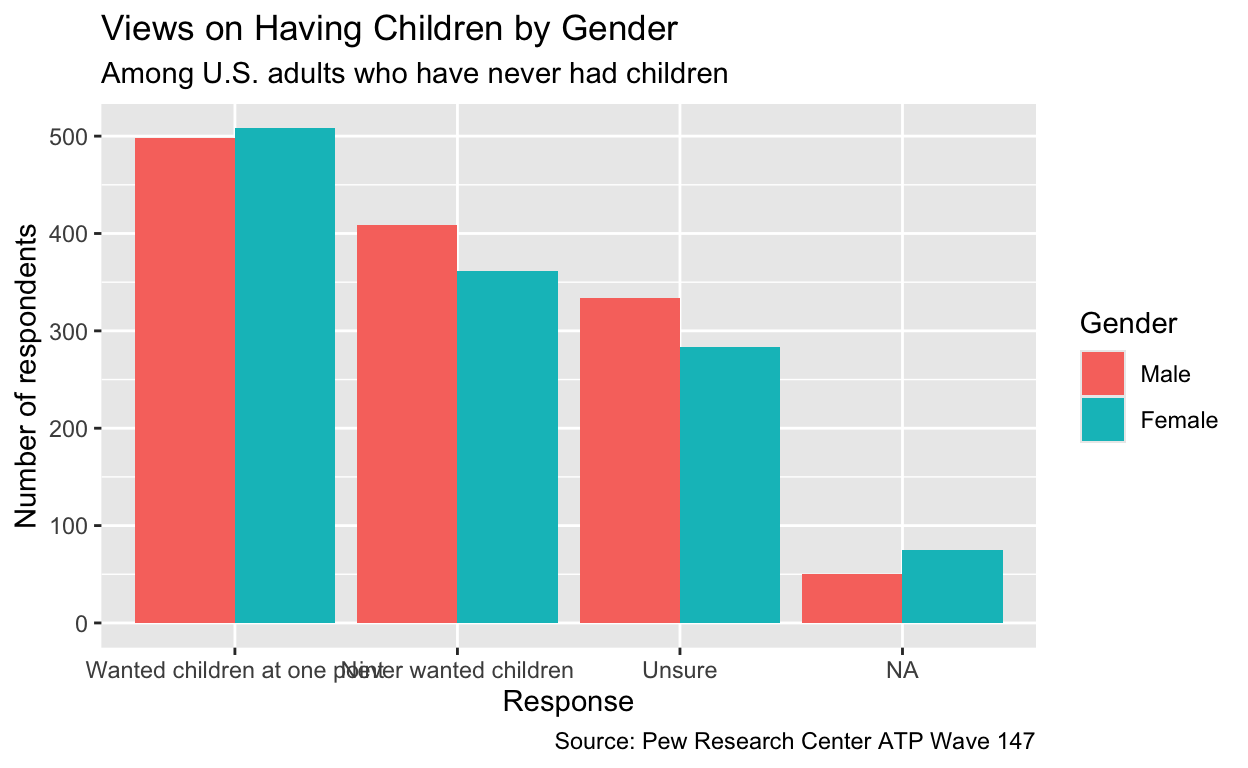
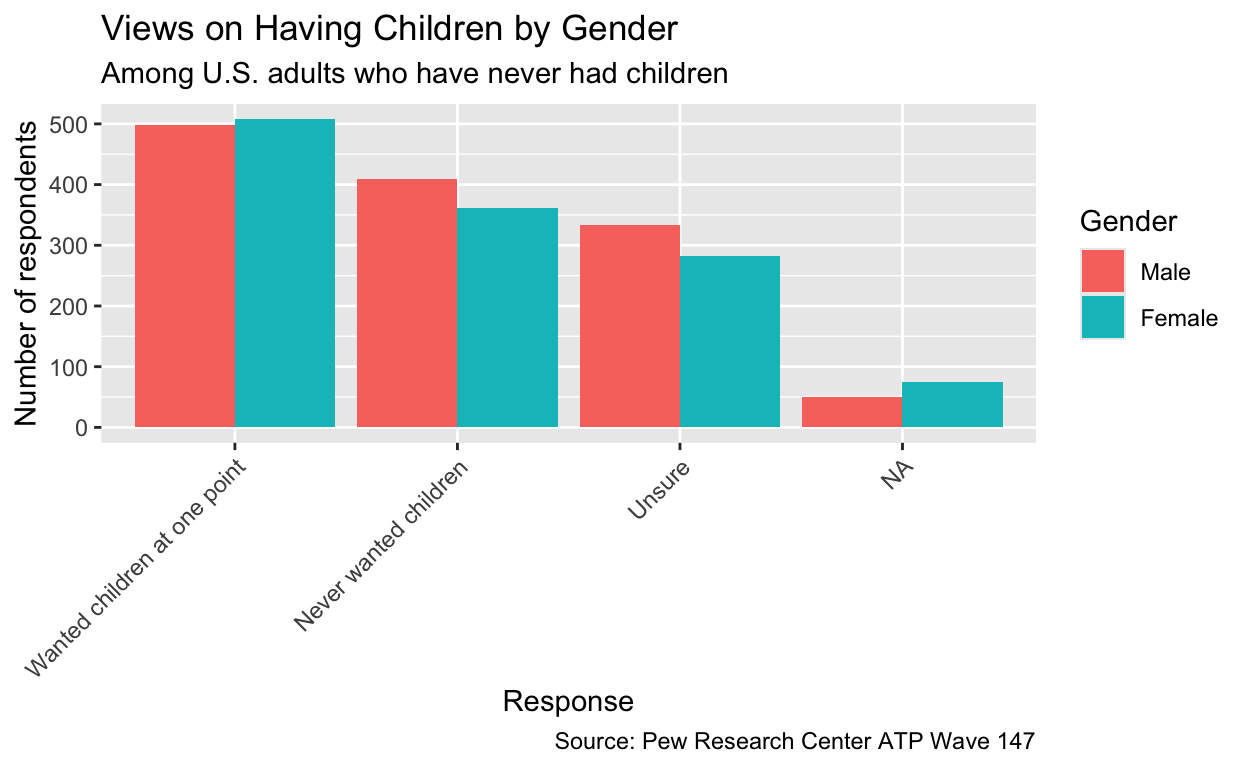
angled

Changed region(s): [[0.0, 0.1562, 0.9688, 0.9062], [0.2812, 0.2188, 0.625, 0.4688]]

diff --git a/index.html b/index.html
@@ -1602,7 +1602,8 @@ code span.wa { color: #5e5e5e; font-style: italic; } /* Warning */
 <span>    y <span class='op'>=</span> <span class='st'>"Number of respondents"</span>,</span>
 <span>    fill <span class='op'>=</span> <span class='st'>"Gender"</span>,</span>
 <span>    caption <span class='op'>=</span> <span class='st'>"Source: Pew Research Center ATP Wave 147"</span></span>
-<span>  <span class='op'>)</span></span></code></pre>
+<span>  <span class='op'>)</span> <span class='op'>+</span></span>
+<span>  <span class='fu'><a href='https://ggplot2.tidyverse.org/reference/theme.html'>theme</a></span><span class='op'>(</span>axis.text.x <span class='op'>=</span> <span class='fu'><a href='https://ggplot2.tidyverse.org/reference/element.html'>element_text</a></span><span class='op'>(</span>angle <span class='op'>=</span> <span class='fl'>45</span>, hjust <span class='op'>=</span> <span class='fl'>1</span><span class='op'>)</span><span class='op'>)</span></span></code></pre>
 </div>
 <p><img src="index_files/figure-html5/unnamed-chunk-1-1.png" alt="" width="624" /></p>
 </div>
